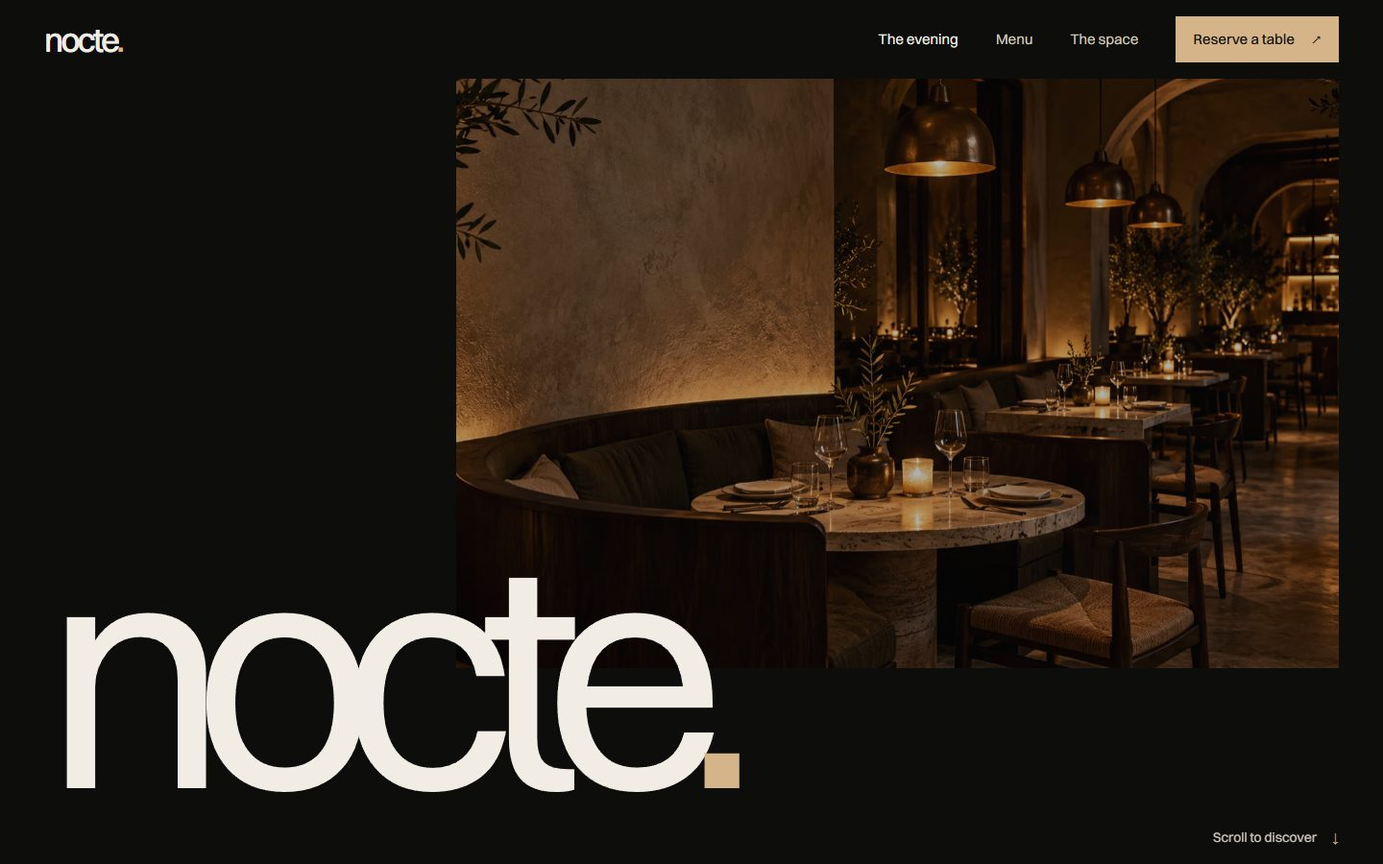
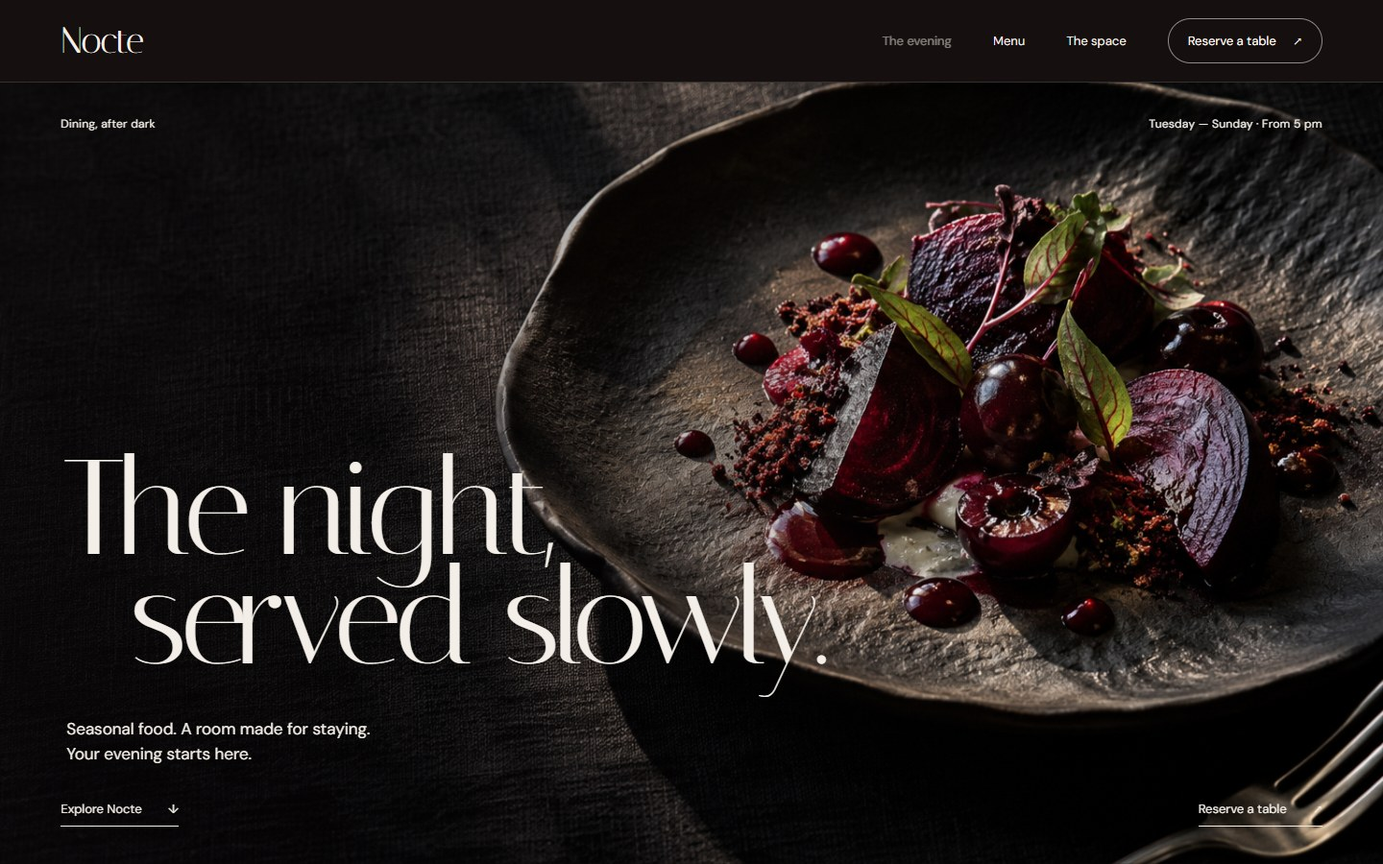
Redesign Nocte restaurant experience

diff --git a/restaurant/editorial.css b/restaurant/editorial.css
@@ -1,0 +1,20 @@
+:root{--bg:#15100f;--surface:#241b19;--surface-light:#382b27;--ink:#f3eee7;--soft:#c9bdb2;--muted:#ad9d91;--accent:#b65049;--accent-ink:#fff8ef;--paper:#e8dfd2;--paper-ink:#27201d;--font:'DM Sans',Arial,sans-serif;--display:'Italiana','Times New Roman',serif;--page-pad:clamp(22px,4.4vw,84px)}
+html{scroll-behavior:smooth}body{background:var(--bg);font-family:var(--font);color:var(--ink);font-size:16px}h1,h2,h3,h4{font-family:var(--display);letter-spacing:-.04em;font-weight:400;line-height:.95}h1 em,h2 i{font-style:normal}::selection{background:var(--accent);color:white}
+.site-header{height:86px;background:var(--bg);border-bottom:1px solid rgba(243,238,231,.14);position:relative;z-index:60}.brand{font-family:var(--display);font-size:38px;letter-spacing:-.04em;font-weight:400}.brand-period{display:none}.site-nav{font-size:13px;gap:clamp(28px,3vw,52px)}.site-nav>a:not(.nav-reserve){color:var(--ink)}.site-nav>a.active{opacity:.5}.nav-reserve{background:none;border:1px solid rgba(243,238,231,.55);color:var(--ink);padding:13px 20px;border-radius:100px;font-weight:400}.nav-reserve:hover{background:var(--ink);color:var(--bg);transform:none}.page-transition{background:var(--paper)}.is-leaving .page-transition{animation-duration:.42s}
+.editorial-hero{height:calc(100svh - 86px);min-height:690px;position:relative;overflow:hidden;background:#120d0d}.hero-stage{position:absolute;inset:0;overflow:hidden}.hero-stage img{width:100%;height:100%;object-fit:cover;object-position:center center;animation:heroOpen 1.5s cubic-bezier(.22,1,.36,1) both}.hero-stage:after{content:"";position:absolute;inset:0;background:linear-gradient(90deg,rgba(9,6,7,.68) 0%,rgba(9,6,7,.23) 48%,transparent 76%)}@keyframes heroOpen{from{clip-path:inset(0 0 100% 0);transform:scale(1.08)}to{clip-path:inset(0);transform:scale(1)}}
+.hero-meta{position:absolute;top:34px;left:var(--page-pad);right:var(--page-pad);display:flex;justify-content:space-between;font-size:12px;letter-spacing:.02em;color:var(--ink);z-index:2}.hero-title-wrap{position:absolute;z-index:2;left:var(--page-pad);bottom:12.5%;max-width:900px}.hero-title-wrap h1{font-size:clamp(88px,9.7vw,176px);line-height:.82;letter-spacing:-.045em;white-space:nowrap;animation:titleEnter 1.05s .25s cubic-bezier(.2,.7,.2,1) both}.hero-title-wrap h1 em{margin-left:clamp(20px,5vw,90px)}.hero-title-wrap p{font-size:17px;line-height:1.55;max-width:340px;margin:44px 0 0 6px;animation:titleEnter .8s .65s both}@keyframes titleEnter{from{opacity:0;transform:translateY(35px)}to{opacity:1;transform:none}}.hero-explore,.hero-reserve{position:absolute;z-index:3;bottom:39px;font-size:13px;border-bottom:1px solid currentColor;padding-bottom:8px}.hero-explore{left:var(--page-pad)}.hero-reserve{right:var(--page-pad)}.hero-explore span,.hero-reserve span{margin-left:24px}
+.manifesto{background:var(--paper);color:var(--paper-ink);padding:74px var(--page-pad) 105px}.manifesto-top,.manifesto-bottom{display:flex;align-items:flex-start;justify-content:space-between;gap:35px}.manifesto-top{font-size:13px}.manifesto-top span{font-family:var(--display);font-size:26px}.manifesto h2{font-size:clamp(62px,8.4vw,148px);line-height:.89;letter-spacing:-.055em;margin:110px 0 95px;max-width:1200px}.manifesto h2 i{color:var(--accent)}.manifesto-bottom{align-items:end}.manifesto-bottom p{font-size:clamp(18px,1.8vw,27px);line-height:1.35;max-width:510px}.manifesto-bottom a,.food-copy a,.space-story-foot a,.closing-copy a{font-size:14px;border-bottom:1px solid currentColor;padding-bottom:9px;white-space:nowrap}.manifesto-bottom a span,.food-copy a span,.space-story-foot a span,.closing-copy a span{margin-left:26px}
+.food-story{padding:160px var(--page-pad);display:grid;grid-template-columns:1.05fr .95fr;gap:clamp(60px,9vw,180px);align-items:center}.food-photo{height:700px;max-height:75vw;overflow:hidden}.food-photo img,.space-panorama img,.closing-photo img{width:100%;height:100%;object-fit:cover}.food-copy{max-width:470px}.food-copy>span{font-size:13px;color:var(--soft)}.food-copy h2,.space-story h2,.closing-copy h2{font-size:clamp(68px,7vw,120px);margin:36px 0 45px}.food-copy p{font-size:19px;line-height:1.55;color:var(--soft);max-width:390px;margin-bottom:45px}.food-copy a{display:inline-block}
+.interlude{min-height:440px;background:#301d1d;color:var(--paper);display:grid;place-items:center;text-align:center;padding:70px var(--page-pad)}.interlude p{font-family:var(--display);font-size:clamp(49px,6.5vw,110px);line-height:1.05;max-width:1000px}
+.space-story{padding:150px 0 160px}.space-story-head,.space-story-foot{padding:0 var(--page-pad);display:flex;justify-content:space-between;align-items:end;gap:50px}.space-story h2{margin:0 0 60px}.space-story h2 i{color:var(--accent)}.space-story-head p{font-size:19px;line-height:1.5;color:var(--soft);max-width:300px;margin-bottom:67px}.space-panorama{height:min(64vw,780px);overflow:hidden}.space-panorama img{object-position:center 55%}.space-story-foot{padding-top:24px;font-size:13px;color:var(--soft)}.space-story-foot a{color:var(--ink)}
+.closing{display:grid;grid-template-columns:1fr 1fr;min-height:730px;background:var(--paper);color:var(--paper-ink)}.closing-photo{height:100%;min-height:730px;overflow:hidden}.closing-copy{display:flex;flex-direction:column;align-items:flex-start;justify-content:center;padding:70px clamp(40px,8vw,150px)}.closing-copy>p{font-size:15px}.closing-copy h2{margin:65px 0 85px}.closing-copy a{font-size:15px}
+.site-footer{padding-top:110px;padding-bottom:45px}.site-footer strong{font-family:var(--display);font-size:70px;color:var(--ink);font-weight:400;line-height:1;margin-bottom:20px}.site-footer>div{gap:4px}.site-footer a:hover{color:var(--ink);opacity:.55}
+/* The inner pages use the same visual language, while retaining their full content and interactions. */
+.page-hero,.reserve-heading{min-height:630px;grid-template-columns:1.08fr .92fr;padding-top:72px;padding-bottom:110px}.page-hero h1,.reserve-heading h1{font-size:clamp(82px,8.5vw,150px);margin-bottom:42px}.page-hero p,.reserve-heading p{font-size:19px;line-height:1.5}.menu-hero-image,.reserve-heading-img{height:550px}.menu-hero-image img{object-position:65% center}.menu-content{background:var(--paper);color:var(--paper-ink);max-width:none;padding:100px var(--page-pad) 120px}.menu-intro h2{font-size:clamp(66px,7vw,112px)}.menu-intro p,.menu-item p{color:#584e47}.menu-tabs{margin:80px 0 90px}.menu-tab{color:#766b64;font-size:16px;font-weight:500;border-bottom:1px solid transparent}.menu-tab.active,.menu-tab:hover{color:var(--paper-ink);border-color:var(--paper-ink)}.menu-group{margin-bottom:110px}.menu-group h3{font-size:clamp(43px,4vw,68px);color:var(--accent)}.menu-item{border-bottom:1px solid rgba(39,32,29,.22);padding-bottom:20px}.menu-item h4{font-size:clamp(28px,2.6vw,43px)}.menu-item>span{font-size:16px}.menu-note{color:#5d524c}.menu-photos{padding-top:150px}.menu-outro p{font-family:var(--display);font-size:clamp(65px,7vw,120px)}.button-solid{background:var(--accent);border-radius:100px;padding:16px 26px;color:#fff;font-size:14px}.button-solid:hover{background:#9f403b;transform:none}
+.space-hero{height:calc(100svh - 86px)}.space-hero h1{font-size:clamp(80px,9vw,160px)}.space-hero .media-frame:after{background:rgba(10,7,6,.28)}.space-statement{background:var(--paper);color:var(--paper-ink);padding-top:150px;padding-bottom:150px}.space-statement p{font-family:var(--display);font-size:clamp(50px,6.6vw,105px);line-height:1}.gallery-section{padding-top:150px}.gallery-section figcaption{color:var(--soft)}.space-close p{font-family:var(--display);font-size:clamp(65px,7vw,120px)}
+.booking-lead h2,.faq-section h2{font-size:clamp(54px,5.5vw,92px);color:var(--ink)}.booking-lead p,.faq-row p{color:var(--soft)}.booking-lead .demo-note{color:#d68b80}.booking-form label{color:var(--soft)}.booking-form input,.booking-form select,.booking-form textarea{background:#241b19;border:1px solid #51413a;color:var(--ink)}.booking-form input:focus,.booking-form select:focus,.booking-form textarea:focus{border-color:var(--ink)}.floorplan{background:#241b19}.floorplan-bar{background:#3a2e29}.table-shape{background:#66564e}.table-choice[aria-pressed="true"] .table-shape{background:var(--accent)}.faq-section{background:var(--paper);color:var(--paper-ink)}.faq-section h2{color:var(--paper-ink)}.faq-row{border-top:1px solid rgba(39,32,29,.25);padding-top:28px}.faq-row h3{font-size:clamp(30px,3vw,50px)}.faq-row p{color:#514841}.booking-success{background:var(--surface)}
+/* One composed image reveal replaces the old repeated fade-up. */
+.js-motion [data-reveal]{position:relative}.js-motion [data-reveal]:after{content:"";position:absolute;inset:0;background:var(--bg);transform-origin:bottom;transition:transform 1.25s cubic-bezier(.22,1,.36,1)}.js-motion .closing-photo[data-reveal]:after{background:var(--paper)}.js-motion [data-reveal] img{transform:scale(1.09)}.js-motion [data-reveal].in-view:after{transform:scaleY(0)}.js-motion [data-reveal].in-view img{transform:scale(1);transition:transform 1.7s cubic-bezier(.22,1,.36,1)}.js-motion .reveal{opacity:1;transform:none;transition:none}
+@media(max-width:900px){.editorial-hero{min-height:650px}.hero-title-wrap h1{font-size:11vw}.food-story{gap:55px}.food-photo{height:560px}.closing,.page-hero,.reserve-heading{grid-template-columns:1fr 1fr}.closing-copy{padding:50px}.closing-photo{min-height:650px}}
+@media(max-width:680px){.site-header{height:68px}.brand{font-size:34px}.site-nav{top:68px;background:var(--bg);font-size:25px}.site-nav .nav-reserve{font-size:15px}.editorial-hero{height:calc(100svh - 68px);min-height:660px}.hero-stage img{object-position:59% center}.hero-stage:after{background:linear-gradient(0deg,rgba(9,6,7,.8) 0%,rgba(9,6,7,.08) 75%)}.hero-meta{top:20px;font-size:11px}.hero-meta span:last-child{max-width:120px;text-align:right}.hero-title-wrap{bottom:155px;right:18px}.hero-title-wrap h1{font-size:clamp(61px,16vw,95px);white-space:normal}.hero-title-wrap h1 em{margin-left:0}.hero-title-wrap p{font-size:15px;margin:24px 0 0;max-width:280px}.hero-explore,.hero-reserve{bottom:31px}.hero-explore{font-size:12px}.hero-reserve{font-size:12px}.hero-explore span,.hero-reserve span{margin-left:5px}.manifesto{padding-top:45px;padding-bottom:75px}.manifesto-top{font-size:11px}.manifesto-top span{font-size:21px}.manifesto h2{font-size:clamp(52px,12vw,75px);margin:92px 0 75px}.manifesto-bottom{display:block}.manifesto-bottom p{font-size:20px;margin-bottom:35px}.food-story{display:block;padding:90px var(--page-pad)}.food-photo{height:105vw;max-height:580px;margin-left:calc(-1*var(--page-pad));margin-right:12vw}.food-copy{padding-top:70px}.food-copy h2,.space-story h2,.closing-copy h2{font-size:clamp(65px,15vw,100px)}.interlude{min-height:360px}.interlude p{font-size:clamp(49px,12vw,80px)}.space-story{padding:100px 0}.space-story-head{display:block}.space-story h2{margin-bottom:38px}.space-story-head p{margin-bottom:40px}.space-panorama{height:112vw}.space-story-foot{font-size:12px;gap:15px}.closing{display:block}.closing-photo{height:105vw;min-height:0}.closing-copy{padding:80px var(--page-pad) 100px}.closing-copy h2{margin:45px 0 55px}.site-footer{padding-top:90px}.site-footer strong{font-size:60px}.page-hero,.reserve-heading{display:flex;flex-direction:column-reverse;gap:40px;min-height:0;padding-top:0;padding-bottom:85px}.page-hero h1,.reserve-heading h1{font-size:clamp(76px,18vw,120px)}.menu-hero-image,.reserve-heading-img{width:calc(100% + 2*var(--page-pad));margin:0 calc(-1*var(--page-pad));height:82vw}.menu-content{padding:80px var(--page-pad)}.menu-tabs{margin:50px 0 65px}.menu-group h3{font-size:51px}.menu-item{gap:15px}.menu-item h4{font-size:31px}.menu-item p{font-size:15px}.menu-photos{padding-top:90px}.menu-outro p{font-size:67px}.space-hero{height:calc(100svh - 68px)}.space-hero h1{font-size:clamp(70px,16vw,110px)}.space-statement{padding-top:105px;padding-bottom:105px}.space-statement p{font-size:clamp(50px,11vw,80px)}.gallery-section{padding-top:95px}.booking-lead h2,.faq-section h2{font-size:69px}.faq-row h3{font-size:38px}}
+@media(prefers-reduced-motion:reduce){html{scroll-behavior:auto}.hero-stage img,.hero-title-wrap h1,.hero-title-wrap p{animation:none}.js-motion [data-reveal]:after{display:none}.js-motion [data-reveal] img{transform:none}}

diff --git a/restaurant/index.html b/restaurant/index.html
@@ -3,55 +3,25 @@
 <head>
   <meta charset="utf-8">
   <meta name="viewport" content="width=device-width, initial-scale=1">
-  <meta name="theme-color" content="#0d0d0c">
-  <meta name="description" content="Nocte is a fictional restaurant concept: thoughtful food, a room made for evenings, and a simple way to reserve a table.">
-  <title>Nocte — An evening worth staying for</title>
-  <link rel="preconnect" href="https://api.fontshare.com">
-  <link rel="preconnect" href="https://cdn.fontshare.com" crossorigin>
-  <link href="https://api.fontshare.com/v2/css?f[]=switzer@400,500,600&display=swap" rel="stylesheet">
+  <meta name="theme-color" content="#15100f">
+  <meta name="description" content="Nocte is a fictional restaurant concept for evenings worth lingering over. Explore the menu, the room, and request a table.">
+  <title>Nocte — The night, served slowly</title>
+  <link rel="preconnect" href="https://fonts.googleapis.com">
+  <link rel="preconnect" href="https://fonts.gstatic.com" crossorigin>
+  <link href="https://fonts.googleapis.com/css2?family=DM+Sans:wght@400;500;600&family=Italiana&display=swap" rel="stylesheet">
   <link rel="stylesheet" href="styles.css">
+  <link rel="stylesheet" href="editorial.css">
   <script defer src="site.js"></script>
 </head>
 <body data-page="home">
-  <a class="skip-link" href="#main">Skip to content</a>
-  <div class="page-transition" aria-hidden="true"></div>
-  <header class="site-header">
-    <a class="brand" href="index.html" aria-label="Nocte home">nocte<span class="brand-period">.</span></a>
-    <button class="menu-toggle" type="button" aria-expanded="false" aria-controls="site-nav" aria-label="Open menu"><span></span><span></span></button>
-    <nav id="site-nav" class="site-nav" aria-label="Main navigation">
-      <a class="active" aria-current="page" href="index.html">The evening</a>
-      <a href="menu.html">Menu</a>
-      <a href="space.html">The space</a>
-      <a class="nav-reserve" href="reserve.html">Reserve a table <span aria-hidden="true">↗</span></a>
-    </nav>
-  </header>
+  <a class="skip-link" href="#main">Skip to content</a><div class="page-transition" aria-hidden="true"></div>
+  <header class="site-header"><a class="brand" href="index.html" aria-label="Nocte home">Nocte</a><button class="menu-toggle" type="button" aria-expanded="false" aria-controls="site-nav" aria-label="Open menu"><span></span><span></span></button><nav id="site-nav" class="site-nav" aria-label="Main navigation"><a class="active" aria-current="page" href="index.html">The evening</a><a href="menu.html">Menu</a><a href="space.html">The space</a><a class="nav-reserve" href="reserve.html">Reserve a table <span aria-hidden="true">↗</span></a></nav></header>
   <main id="main">
-    <section class="hero home-hero">
-      <div class="hero-photo media-frame"><img src="assets/hero.webp" alt="Low lit restaurant dining room prepared for an evening service" fetchpriority="high"></div>
-      <h1 class="hero-wordmark" aria-label="Nocte">nocte<span>.</span></h1>
-      <a class="scroll-cue" href="#story" aria-label="Discover Nocte">Scroll to discover <span aria-hidden="true">↓</span></a>
-    </section>
-
-    <section class="intro-section section-wrap" id="story">
-      <div class="intro-side reveal"><p>Good food takes its time.<br>So should you.</p></div>
-      <p class="intro-statement reveal">The lights get lower. The night gets longer.</p>
-    </section>
-
-    <section class="featured-section section-wrap">
-      <div class="feature-heading reveal"><h2>On the plate.</h2><p>Seasonal plates, open fire, and a menu that follows what tastes best right now.</p></div>
-      <div class="feature-image media-frame reveal"><img src="assets/dish.webp" alt="Carefully plated seasonal dish in dramatic warm light" loading="lazy"></div>
-      <div class="feature-end reveal"><span>From the kitchen</span><a class="text-link" href="menu.html">Explore the menu <span aria-hidden="true">↗</span></a></div>
-    </section>
-
-    <section class="room-section section-wrap">
-      <div class="room-image media-frame reveal"><img src="assets/room.webp" alt="Warm dining room with intimate seating and low evening light" loading="lazy"></div>
-      <div class="room-copy reveal"><h2>Stay awhile.</h2><p>Familiar enough to settle in. Different enough to remember. Find your corner and let the night unfold.</p><a class="text-link" href="space.html">Step inside <span aria-hidden="true">↗</span></a></div>
-    </section>
-
-    <section class="table-moment section-wrap"><div class="table-moment-image media-frame reveal"><img src="assets/table.webp" alt="A quiet table ready for two" loading="lazy"></div><p class="reveal">Never rush the night.</p></section>
-
-    <section class="home-reserve section-wrap reveal"><p>A table is waiting.</p><a class="big-link" href="reserve.html">Join us tonight <span aria-hidden="true">↗</span></a><span>Tuesday–Sunday · dinner from 5 pm</span></section>
-  </main>
-  <footer class="site-footer"><div><span>Nocte is an independent restaurant concept.</span><span>All imagery and details are for demonstration.</span></div><nav aria-label="Footer navigation"><a href="menu.html">Menu</a><a href="space.html">Space</a><a href="reserve.html">Reservations</a></nav><span>© 2026 Nocte</span></footer>
-</body>
-</html>
+    <section class="editorial-hero" aria-labelledby="hero-title"><div class="hero-stage"><img src="assets/nocte-editorial.webp" alt="Sculptural seasonal plate in deep evening light" fetchpriority="high"></div><div class="hero-meta"><span>Dining, after dark</span><span>Tuesday — Sunday · From 5 pm</span></div><div class="hero-title-wrap"><h1 id="hero-title">The night,<br><em>served slowly.</em></h1><p>Seasonal food. A room made for staying. Your evening starts here.</p></div><a class="hero-explore" href="#story">Explore Nocte <span aria-hidden="true">↓</span></a><a class="hero-reserve" href="reserve.html">Reserve a table <span aria-hidden="true">↗</span></a></section>
+    <section class="manifesto" id="story" aria-labelledby="manifesto-title"><div class="manifesto-top"><p>The room changes when the sun goes down.</p><span>At Nocte</span></div><h2 id="manifesto-title">A little less hurry.<br>A lot more <i>night.</i></h2><div class="manifesto-bottom"><p>We cook with the season, pour another glass, and leave enough room for the conversation to find its way.</p><a href="space.html">Come inside <span aria-hidden="true">↗</span></a></div></section>
+    <section class="food-story" aria-labelledby="food-title"><div class="food-photo" data-reveal><img src="assets/dish.webp" alt="A carefully plated seasonal dish" loading="lazy"></div><div class="food-copy"><span>From the kitchen</span><h2 id="food-title">Made for<br>the moment.</h2><p>Our menu follows what tastes best right now. Familiar ingredients, open fire, and just enough surprise.</p><a href="menu.html">Explore the menu <span aria-hidden="true">↗</span></a></div></section>
+    <section class="interlude" aria-label="Nocte dining philosophy"><p>Good evenings are never measured in hours.</p></section>
+    <section class="space-story" aria-labelledby="space-title"><div class="space-story-head"><h2 id="space-title">Find your<br><i>corner.</i></h2><p>Low light. Warm tables. The feeling that there is nowhere else you need to be.</p></div><div class="space-panorama" data-reveal><img src="assets/room.webp" alt="The warmly lit Nocte dining room" loading="lazy"></div><div class="space-story-foot"><span>A room to settle into</span><a href="space.html">Explore the space <span aria-hidden="true">↗</span></a></div></section>
+    <section class="closing" aria-labelledby="closing-title"><div class="closing-photo" data-reveal><img src="assets/table.webp" alt="An intimate table ready for two" loading="lazy"></div><div class="closing-copy"><p>Stay as long as you like.</p><h2 id="closing-title">Your table<br>is waiting.</h2><a href="reserve.html">Make an evening of it <span aria-hidden="true">↗</span></a></div></section>
+  </main><footer class="site-footer"><div><strong>Nocte</strong><span>An independent restaurant concept.</span><span>All imagery and details are for demonstration.</span></div><nav aria-label="Footer navigation"><a href="menu.html">Menu</a><a href="space.html">Space</a><a href="reserve.html">Reservations</a></nav><span>© 2026 Nocte</span></footer>
+</body></html>

diff --git a/restaurant/space.html b/restaurant/space.html
@@ -1,6 +1,6 @@
 <!doctype html>
-<html lang="en"><head><meta charset="utf-8"><meta name="viewport" content="width=device-width, initial-scale=1"><meta name="theme-color" content="#0d0d0c"><meta name="description" content="Take a look inside Nocte: a fictional dining space designed for long evenings."><title>The space — Nocte</title><link rel="preconnect" href="https://api.fontshare.com"><link rel="preconnect" href="https://cdn.fontshare.com" crossorigin><link href="https://api.fontshare.com/v2/css?f[]=switzer@400,500,600&display=swap" rel="stylesheet"><link rel="stylesheet" href="styles.css"><script defer src="site.js"></script></head>
-<body data-page="space"><a class="skip-link" href="#main">Skip to content</a><div class="page-transition" aria-hidden="true"></div><header class="site-header"><a class="brand" href="index.html" aria-label="Nocte home">nocte<span class="brand-period">.</span></a><button class="menu-toggle" type="button" aria-expanded="false" aria-controls="site-nav" aria-label="Open menu"><span></span><span></span></button><nav id="site-nav" class="site-nav" aria-label="Main navigation"><a href="index.html">The evening</a><a href="menu.html">Menu</a><a class="active" aria-current="page" href="space.html">The space</a><a class="nav-reserve" href="reserve.html">Reserve a table <span aria-hidden="true">↗</span></a></nav></header>
+<html lang="en"><head><meta charset="utf-8"><meta name="viewport" content="width=device-width, initial-scale=1"><meta name="theme-color" content="#0d0d0c"><meta name="description" content="Take a look inside Nocte: a fictional dining space designed for long evenings."><title>The space — Nocte</title><link rel="preconnect" href="https://fonts.googleapis.com"><link rel="preconnect" href="https://fonts.gstatic.com" crossorigin><link href="https://fonts.googleapis.com/css2?family=DM+Sans:wght@400;500;600&family=Italiana&display=swap" rel="stylesheet"><link rel="stylesheet" href="styles.css"><link rel="stylesheet" href="editorial.css"><script defer src="site.js"></script></head>
+<body data-page="space"><a class="skip-link" href="#main">Skip to content</a><div class="page-transition" aria-hidden="true"></div><header class="site-header"><a class="brand" href="index.html" aria-label="Nocte home">Nocte</a><button class="menu-toggle" type="button" aria-expanded="false" aria-controls="site-nav" aria-label="Open menu"><span></span><span></span></button><nav id="site-nav" class="site-nav" aria-label="Main navigation"><a href="index.html">The evening</a><a href="menu.html">Menu</a><a class="active" aria-current="page" href="space.html">The space</a><a class="nav-reserve" href="reserve.html">Reserve a table <span aria-hidden="true">↗</span></a></nav></header>
 <main id="main"><section class="space-hero"><div class="media-frame"><img src="assets/room.webp" alt="A warmly illuminated restaurant dining room" fetchpriority="high"></div><div class="space-hero-content section-wrap"><h1>A little darker.<br>A little closer.</h1><p>A room to arrive in, and forget the time.</p></div></section>
 <section class="space-statement section-wrap"><p class="reveal">The light settles. Time makes room for another story.</p></section>
 <section class="gallery-section section-wrap" aria-label="Inside Nocte gallery"><figure class="gallery-one reveal"><img src="assets/table.webp" alt="Intimate table setting inside the restaurant" loading="lazy"><figcaption>A place to settle in</figcaption></figure><figure class="gallery-two reveal"><img src="assets/detail.webp" alt="Close detail of materials and warm restaurant lighting" loading="lazy"><figcaption>Details after dark</figcaption></figure><figure class="gallery-three reveal"><img src="assets/drink.webp" alt="Drink served in the restaurant's evening atmosphere" loading="lazy"><figcaption>One more round</figcaption></figure><figure class="gallery-four reveal"><img src="assets/room.webp" alt="View across the dining room" loading="lazy"><figcaption>Stay as long as you like</figcaption></figure></section>

diff --git a/restaurant/reserve.html b/restaurant/reserve.html
@@ -1,6 +1,6 @@
 <!doctype html>
-<html lang="en"><head><meta charset="utf-8"><meta name="viewport" content="width=device-width, initial-scale=1"><meta name="theme-color" content="#0d0d0c"><meta name="description" content="Choose an evening and a table at Nocte, a fictional restaurant booking experience."><title>Reservations — Nocte</title><link rel="preconnect" href="https://api.fontshare.com"><link rel="preconnect" href="https://cdn.fontshare.com" crossorigin><link href="https://api.fontshare.com/v2/css?f[]=switzer@400,500,600&display=swap" rel="stylesheet"><link rel="stylesheet" href="styles.css"><script defer src="site.js"></script></head>
-<body data-page="reserve"><a class="skip-link" href="#main">Skip to content</a><div class="page-transition" aria-hidden="true"></div><header class="site-header"><a class="brand" href="index.html" aria-label="Nocte home">nocte<span class="brand-period">.</span></a><button class="menu-toggle" type="button" aria-expanded="false" aria-controls="site-nav" aria-label="Open menu"><span></span><span></span></button><nav id="site-nav" class="site-nav" aria-label="Main navigation"><a href="index.html">The evening</a><a href="menu.html">Menu</a><a href="space.html">The space</a><a class="nav-reserve active" aria-current="page" href="reserve.html">Reserve a table <span aria-hidden="true">↗</span></a></nav></header>
+<html lang="en"><head><meta charset="utf-8"><meta name="viewport" content="width=device-width, initial-scale=1"><meta name="theme-color" content="#0d0d0c"><meta name="description" content="Choose an evening and a table at Nocte, a fictional restaurant booking experience."><title>Reservations — Nocte</title><link rel="preconnect" href="https://fonts.googleapis.com"><link rel="preconnect" href="https://fonts.gstatic.com" crossorigin><link href="https://fonts.googleapis.com/css2?family=DM+Sans:wght@400;500;600&family=Italiana&display=swap" rel="stylesheet"><link rel="stylesheet" href="styles.css"><link rel="stylesheet" href="editorial.css"><script defer src="site.js"></script></head>
+<body data-page="reserve"><a class="skip-link" href="#main">Skip to content</a><div class="page-transition" aria-hidden="true"></div><header class="site-header"><a class="brand" href="index.html" aria-label="Nocte home">Nocte</a><button class="menu-toggle" type="button" aria-expanded="false" aria-controls="site-nav" aria-label="Open menu"><span></span><span></span></button><nav id="site-nav" class="site-nav" aria-label="Main navigation"><a href="index.html">The evening</a><a href="menu.html">Menu</a><a href="space.html">The space</a><a class="nav-reserve active" aria-current="page" href="reserve.html">Reserve a table <span aria-hidden="true">↗</span></a></nav></header>
 <main id="main"><section class="reserve-heading section-wrap"><div><h1>Your night<br>starts here.</h1><p>Choose your evening. Find your favourite corner. The rest can wait.</p></div><div class="reserve-heading-img media-frame"><img src="assets/table.webp" alt="A table set for an evening at Nocte" fetchpriority="high"></div></section>
 <section class="booking-section section-wrap" aria-labelledby="book-heading"><div class="booking-lead"><h2 id="book-heading">Find a table</h2><p>Pick a date and party size, then select a table in the room.</p><p class="demo-note">This is an interactive portfolio demo. No reservation is sent to a restaurant.</p></div>
   <form id="booking-form" class="booking-form" novalidate>

diff --git a/restaurant/menu.html b/restaurant/menu.html
@@ -4,10 +4,10 @@
   <meta charset="utf-8"><meta name="viewport" content="width=device-width, initial-scale=1"><meta name="theme-color" content="#0d0d0c">
   <meta name="description" content="Explore a sample seasonal dinner and drinks menu for Nocte restaurant concept.">
   <title>Menu — Nocte</title>
-  <link rel="preconnect" href="https://api.fontshare.com"><link rel="preconnect" href="https://cdn.fontshare.com" crossorigin><link href="https://api.fontshare.com/v2/css?f[]=switzer@400,500,600&display=swap" rel="stylesheet"><link rel="stylesheet" href="styles.css"><script defer src="site.js"></script>
+  <link rel="preconnect" href="https://fonts.googleapis.com"><link rel="preconnect" href="https://fonts.gstatic.com" crossorigin><link href="https://fonts.googleapis.com/css2?family=DM+Sans:wght@400;500;600&family=Italiana&display=swap" rel="stylesheet"><link rel="stylesheet" href="styles.css"><link rel="stylesheet" href="editorial.css"><script defer src="site.js"></script>
 </head>
 <body data-page="menu"><a class="skip-link" href="#main">Skip to content</a><div class="page-transition" aria-hidden="true"></div>
-  <header class="site-header"><a class="brand" href="index.html" aria-label="Nocte home">nocte<span class="brand-period">.</span></a><button class="menu-toggle" type="button" aria-expanded="false" aria-controls="site-nav" aria-label="Open menu"><span></span><span></span></button><nav id="site-nav" class="site-nav" aria-label="Main navigation"><a href="index.html">The evening</a><a class="active" aria-current="page" href="menu.html">Menu</a><a href="space.html">The space</a><a class="nav-reserve" href="reserve.html">Reserve a table <span aria-hidden="true">↗</span></a></nav></header>
+  <header class="site-header"><a class="brand" href="index.html" aria-label="Nocte home">Nocte</a><button class="menu-toggle" type="button" aria-expanded="false" aria-controls="site-nav" aria-label="Open menu"><span></span><span></span></button><nav id="site-nav" class="site-nav" aria-label="Main navigation"><a href="index.html">The evening</a><a class="active" aria-current="page" href="menu.html">Menu</a><a href="space.html">The space</a><a class="nav-reserve" href="reserve.html">Reserve a table <span aria-hidden="true">↗</span></a></nav></header>
   <main id="main">
     <section class="page-hero menu-hero section-wrap"><div><h1 class="reveal">For the table.</h1><p class="reveal">Our kitchen follows the season, then adds a little instinct. This is a sample of what a good evening could look like.</p></div><div class="menu-hero-image media-frame reveal"><img src="assets/dish.webp" alt="Seasonal dish from the Nocte sample menu" fetchpriority="high"></div></section>
     <section class="menu-content section-wrap" aria-labelledby="menu-title"><div class="menu-intro"><h2 id="menu-title">Dinner menu</h2><p>A few things to begin with. A few reasons to stay.</p></div>

diff --git a/index.html b/index.html
@@ -30,8 +30,8 @@
       <div class="section-heading"><span class="eyebrow">Selected work</span><h2 id="work-title">A few different ways<br>to build an experience.</h2></div>
       <div class="project-grid">
         <article class="project project-featured">
-          <a class="project-visual visual-restaurant" href="restaurant/" aria-label="Open Nocte restaurant website concept"><img src="restaurant/assets/hero.webp" alt="Dark, warmly lit interior from the Nocte restaurant website concept" loading="lazy"><span class="view-label">Explore site ↗</span></a>
-          <div class="project-meta"><div><span class="project-number">01 / Restaurant</span><h3>Nocte</h3><p>A four-page restaurant concept with an atmospheric dining story, seasonal sample menu, interior gallery, and interactive table request demo.</p></div><a href="restaurant/" aria-label="Open Nocte restaurant website concept">↗</a></div>
+          <a class="project-visual visual-restaurant" href="restaurant/" aria-label="Open Nocte restaurant website concept"><img src="restaurant/assets/nocte-editorial.webp" alt="Sculptural seasonal plate from the redesigned Nocte restaurant concept" loading="lazy"><span class="view-label">Explore site ↗</span></a>
+          <div class="project-meta"><div><span class="project-number">01 / Restaurant</span><h3>Nocte</h3><p>An after-dark editorial restaurant experience with a seasonal sample menu, interior gallery, and interactive table request demo.</p></div><a href="restaurant/" aria-label="Open Nocte restaurant website concept">↗</a></div>
         </article>
         <article class="project">
           <a class="project-visual visual-hospitality" href="atelier/" aria-label="Open Cala Selva hotel website concept"><img src="atelier/assets/hero-suite.webp" alt="Warm, sunlit interior from the Cala Selva hotel website concept" loading="lazy"><span class="view-label">Explore site ↗</span></a>

diff --git a/restaurant/site.js b/restaurant/site.js
@@ -22,30 +22,14 @@
 
   if (!reduceMotion && 'IntersectionObserver' in window) {
     document.documentElement.classList.add('js-motion');
-    document.querySelectorAll('.menu-intro,.menu-tabs,.menu-group,.menu-outro .media-frame,.menu-outro>div:last-child,.space-hero h1,.space-hero p,.booking-lead,.booking-form .form-grid,.floorplan-heading,.floorplan,.note-label,.booking-submit,.faq-row').forEach((element) => element.classList.add('reveal'));
     const observer = new IntersectionObserver((entries) => {
       entries.forEach((entry) => {
-        if (entry.isIntersecting) {
-          entry.target.classList.add('in-view');
-          observer.unobserve(entry.target);
-        }
+        if (!entry.isIntersecting) return;
+        entry.target.classList.add('in-view');
+        observer.unobserve(entry.target);
       });
-    }, { threshold: 0.07, rootMargin: '0px 0px 50px 0px' });
-    document.querySelectorAll('.reveal').forEach((element) => observer.observe(element));
-
-    const wordmark = document.querySelector('.hero-wordmark');
-    if (wordmark) {
-      let ticking = false;
-      window.addEventListener('scroll', () => {
-        if (ticking) return;
-        ticking = true;
-        requestAnimationFrame(() => {
-          const progress = Math.min(window.scrollY / Math.max(window.innerHeight, 1), 1);
-          wordmark.style.transform = `scale(${1 - progress * 0.045})`;
-          ticking = false;
-        });
-      }, { passive: true });
-    }
+    }, { threshold: 0.12, rootMargin: '0px 0px -30px 0px' });
+    document.querySelectorAll('[data-reveal]').forEach((element) => observer.observe(element));
   }
 
   document.querySelectorAll('a[href$=".html"]').forEach((link) => {

diff --git a/restaurant/README.md b/restaurant/README.md
@@ -13,12 +13,14 @@ The reservation form validates the date, time, party size, table and contact det
 
 ## Run locally
 
-Open `index.html` directly, or run `py -m http.server 8000` from this folder and open `http://localhost:8000`. There is no build step or framework dependency. The Switzer font loads from Fontshare and falls back to Arial when offline.
+Open `index.html` directly, or run `py -m http.server 8000` from this folder and open `http://localhost:8000`. There is no build step or framework dependency. Italiana and DM Sans load from Google Fonts, with local serif and sans-serif fallbacks.
 
 ## Imagery
 
-The six local images in `assets/` were generated for this concept. They depict a fictional venue and are not photographs of a real restaurant.
+The original six local images in `assets/` depict a fictional venue. The redesign adds `nocte-editorial.webp`, a generated still life created specifically for the new home hero. None of the images are photographs of a real restaurant.
 
 ## Design references
 
-The art direction was informed by dark restaurant and café references on [Refero](https://styles.refero.design/?q=restaurant). [Lenis](https://github.com/darkroomengineering/lenis), [Swup](https://github.com/swup/swup), [PhotoSwipe](https://github.com/dimsemenov/PhotoSwipe), [Swiper](https://github.com/nolimits4web/swiper), and [Three.js](https://github.com/mrdoob/three.js) were evaluated as open-source interaction references. This demo implements its transitions, gallery and table map with native browser APIs so the four pages also run without a build process.
+The redesign treats Nocte as an after-dark gastronomic journal. Editorial type scale and composition were informed by [Redis Agency on Refero](https://styles.refero.design/style/4406799b-1586-4d84-aac9-e6acdee0f679); its isolated subject and restrained chrome take cues from [ORYZO on Refero](https://styles.refero.design/style/1f204e95-454a-437e-845b-c1b169d35607). The scroll image reveals were researched against the MIT-licensed [Codrops DoubleImageHoverEffects](https://github.com/codrops/DoubleImageHoverEffects) and [OnScrollColumnsRows](https://github.com/codrops/OnScrollColumnsRows). This static project implements the motion with browser APIs, so it remains dependency-free and respects reduced-motion settings.
+
+The four pages retain the interactive menu and demo table request. `editorial.css` carries the new visual system; `styles.css` retains the original page layout and functional component styles.
